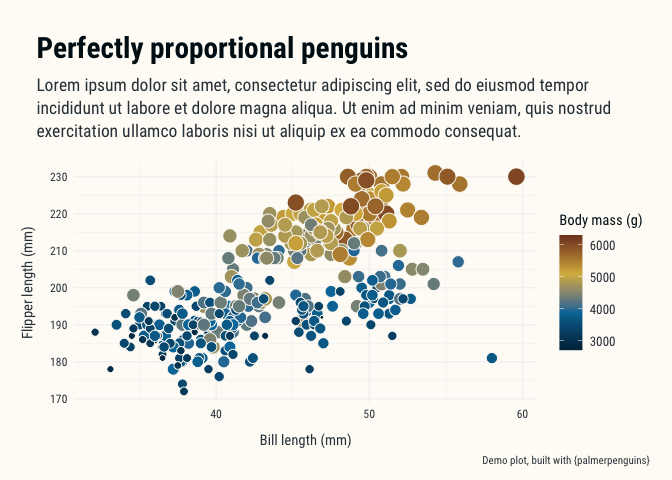
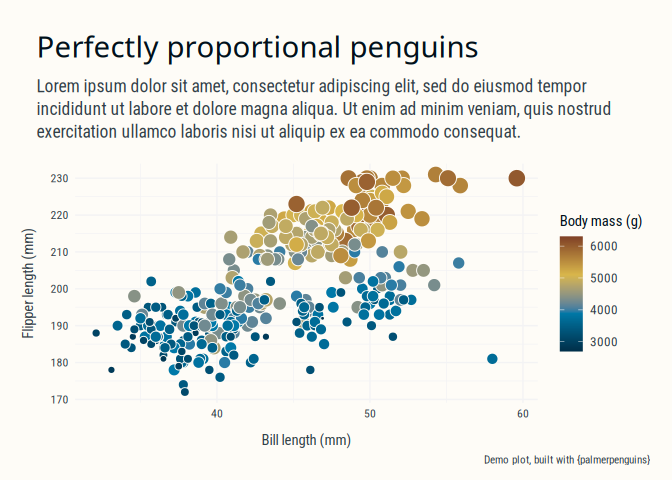
Render README

diff --git a/README.md b/README.md
@@ -4,6 +4,8 @@
 # tealviz <a href="https://t-emery.github.io/tealviz/"><img src="man/figures/logo.png" align="right" height="139" alt="tealviz website" /></a>
 
 <!-- badges: start -->
+
+[![R-CMD-check](https://github.com/Promptly-Technologies-LLC/tealviz/actions/workflows/R-CMD-check.yaml/badge.svg)](https://github.com/Promptly-Technologies-LLC/tealviz/actions/workflows/R-CMD-check.yaml)
 <!-- badges: end -->
 
 `tealviz` is a collection of data visualization tools for [Teal
@@ -21,6 +23,16 @@ researcher, not an artist, so having such a skilled designer help me
 build this package was a huge help. I highly recommend her work. The
 inspired coding & visual design work are hers. The mistakes are mine.
 
+## Prerequisites
+
+To install on Ubuntu, you may first need to install `libmagick++-dev` on
+your system by running the following commands in your terminal:
+
+``` bash
+sudo apt-get update
+sudo apt-get install libmagick++-dev
+```
+
 ## Installation
 
 You can install the development version of tealviz from
@@ -33,12 +45,13 @@ devtools::install_github("t-emery/tealviz")
 ### Fonts
 
 `tealviz` assumes that the user has fonts installed on their computer.
-The package will not install fonts for you. If you do not have the fonts
-installed, the package will not work. The fonts used in this package
-are: `Roboto`, `Roboto Condensed`, `Lora`, and `Lora Bold`. You can
-install them from [Google Fonts](https://fonts.google.com/). They are
-also available as assets in the `tealviz` package. You can find them in
-the
+The package will attempt to install fonts for you, but may not succeed
+depending on your operating system and permissions. If you do not have
+the fonts installed, the package will not work. The fonts used in this
+package are: `Roboto`, `Roboto Condensed`, `Lora`, and `Lora Bold`. You
+can install them manually from [Google
+Fonts](https://fonts.google.com/). They are also available as assets in
+the `tealviz` package. You can find them in the
 [`inst/assets/fonts`](https://github.com/t-emery/tealviz/tree/main/inst/assets/fonts)
 folder of the GitHub repo. You can install them with the `extrafont`
 package.
@@ -54,16 +67,13 @@ themes, and custom colors/palettes.
 
 ``` r
 library(tealviz)
-#> [32mSuccessfully hoisted 6 font(s) for the family 'Roboto': Roboto Bold, Roboto Italic, Roboto Bold Italic, Roboto Regular, Roboto Regular, Roboto Bold[0m
-#> [32mThe following font(s) for the family 'Roboto' are already loaded: Roboto Medium[0m
-#> [32mSuccessfully hoisted 6 font(s) for the family 'Roboto Condensed': Roboto Condensed Italic, Roboto Condensed Light Italic, Roboto Condensed Bold Italic, Roboto Condensed Bold, Roboto Condensed Light, Roboto Condensed Regular[0m
-#> [32mSuccessfully hoisted 8 font(s) for the family 'Lora': Lora Italic, Lora SemiBold Italic, Lora Regular, Lora Bold, Lora SemiBold, Lora Medium Italic, Lora Medium, Lora Bold Italic[0m
-#> [32mSuccessfully hoisted 8 font(s) for the family 'Inconsolata': Inconsolata Bold, Inconsolata SemiBold, Inconsolata Light, Inconsolata Medium, Inconsolata ExtraLight, Inconsolata Black, Inconsolata Regular, Inconsolata ExtraBold[0m
 # On loading the package, the `font_hoist()` function automatically makes sure the fonts are available for use. You will see messages in the console to inform you whether the fonts loaded correctly or not. 
 library(ggplot2)
-#> Warning: package 'ggplot2' was built under R version 4.3.1
 
 palmerpenguins::penguins |>
+  dplyr::filter(!is.na(bill_length_mm),
+                !is.na(flipper_length_mm),
+                !is.na(body_mass_g)) |>
   ggplot() +
   geom_point(aes(x = bill_length_mm,
                  y = flipper_length_mm,
@@ -82,8 +92,7 @@ palmerpenguins::penguins |>
   theme_ti(title_font = "Roboto Condensed Bold",
            base_font = "Roboto Condensed",
            background_color = TRUE,
-           void = FALSE) 
-#> Warning: Removed 2 rows containing missing values (`geom_point()`).
+           void = FALSE)
 ```
 
 <img src="man/figures/README-example-1.png" width="100%" />
